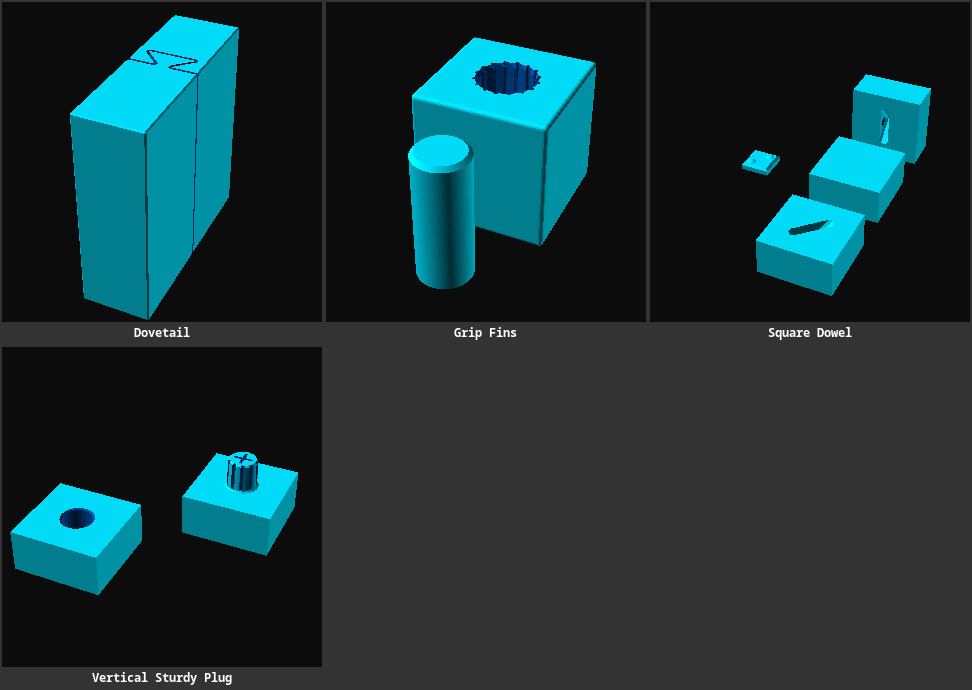
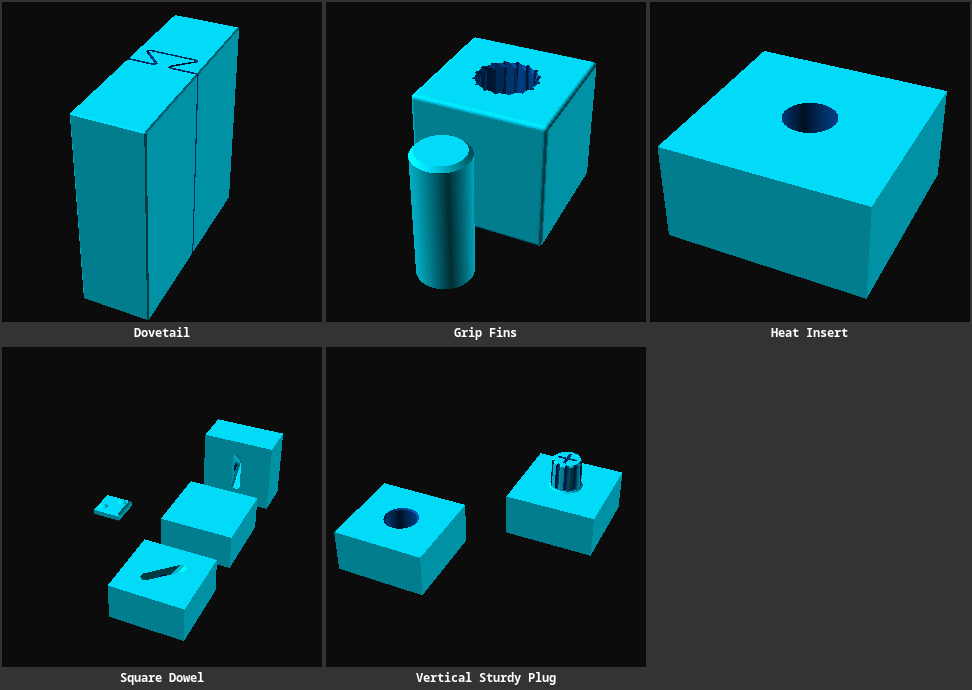
update preview, add TOC

diff --git a/parts/joining/README.md b/parts/joining/README.md
@@ -1,6 +1,15 @@
-# Joining Parts
+# Joining Parts <!-- omit from toc -->
 
-Reusable OpenSCAD geometries to join pieces together.
+> Reusable OpenSCAD geometries to join pieces together.
+
+**Contents**
+
+- [Vertical Sturdy Plug](#vertical-sturdy-plug)
+- [Grip Fins](#grip-fins)
+- [Heat-Insert Hole](#heat-insert-hole)
+- [Square Dowel](#square-dowel)
+- [Dovetail](#dovetail)
+
 
 > ![Tiled Preview](./preview.png)
 
